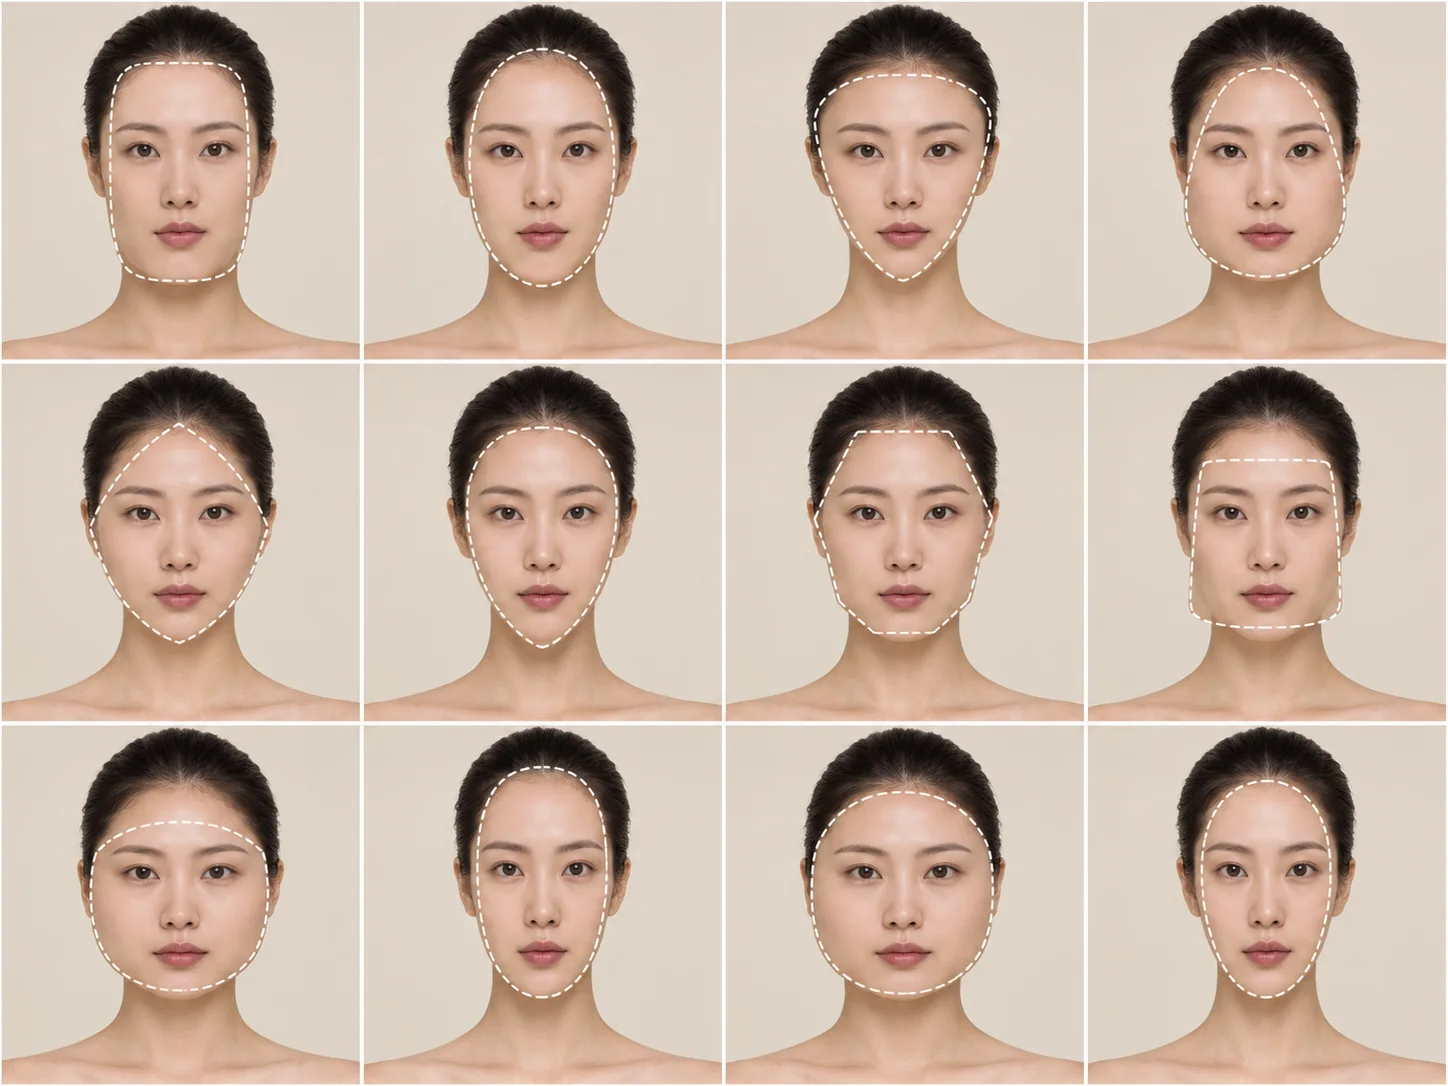
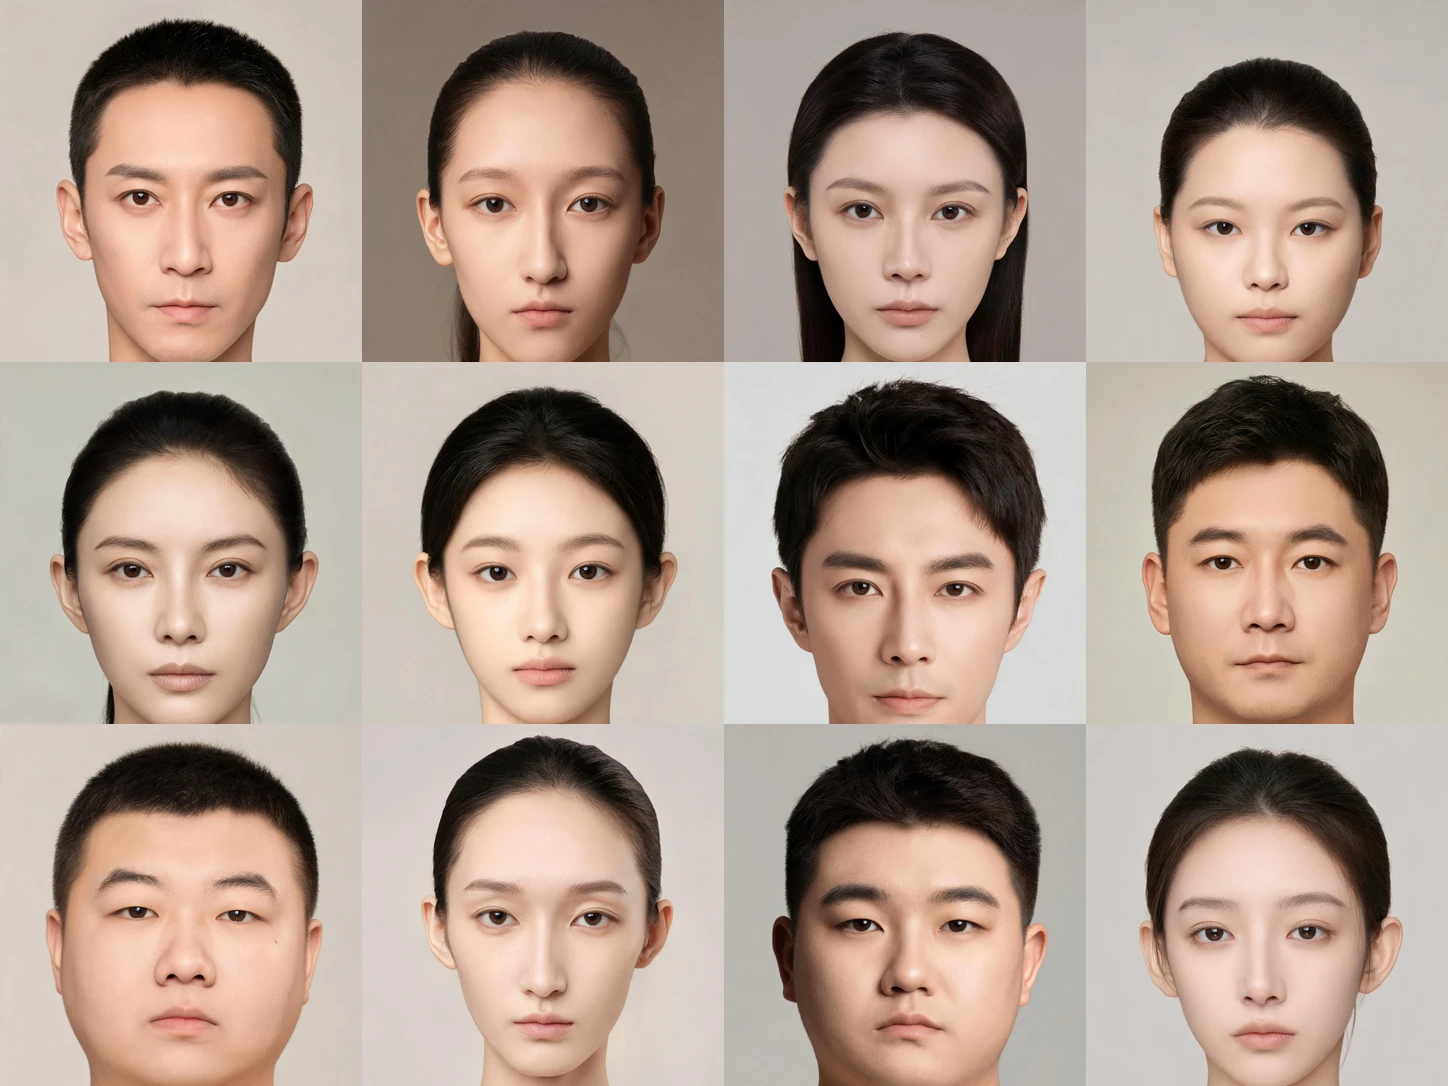
fix: 移除脸型网格图白色虚线轮廓，替换为纯净写实人像

diff --git a/beauty.html b/beauty.html
@@ -128,7 +128,7 @@
   <script src="./brand-products-data.js"></script>
   <script src="./brand-products-expansion.js?v=2.6"></script>
   <script src="./brand-product-images.js?v=2.6"></script>
-  <script src="./examples-data.js?v=1.26"></script>
+  <script src="./examples-data.js?v=1.27"></script>
   <script src="./sources-data.js?v=1.12"></script>
   <script src="./beauty.js?v=3.12"></script>
 </body>

diff --git a/recognize.html b/recognize.html
@@ -138,7 +138,7 @@
   </footer>
 
   <script src="./beauty-data.js?v=3.30"></script>
-  <script src="./examples-data.js?v=1.26"></script>
+  <script src="./examples-data.js?v=1.27"></script>
   <script src="./body-data.js?v=1.8.5"></script>
   <script src="./body-examples.js?v=1.7"></script>
   <script type="module" src="./recognize.js?v=1.9"></script>

diff --git a/index.html b/index.html
@@ -159,7 +159,7 @@
   </dialog>
 
   <script src="./data.js?v=5.6"></script>
-  <script src="./examples-data.js?v=1.26"></script>
+  <script src="./examples-data.js?v=1.27"></script>
   <script src="./sources-data.js?v=1.12"></script>
   <script src="./app.js?v=3.14"></script>
 </body>

diff --git a/examples-data.js b/examples-data.js
@@ -1,5 +1,5 @@
 (() => {
-  const ASSET_VERSION = '20261016d';
+  const ASSET_VERSION = '20261019a';
   const sheet = (file, col, row, alt) => ({
     file: `./assets/examples/${file}?v=${ASSET_VERSION}`,
     x: ['0%', '33.333%', '66.667%', '100%'][col],
